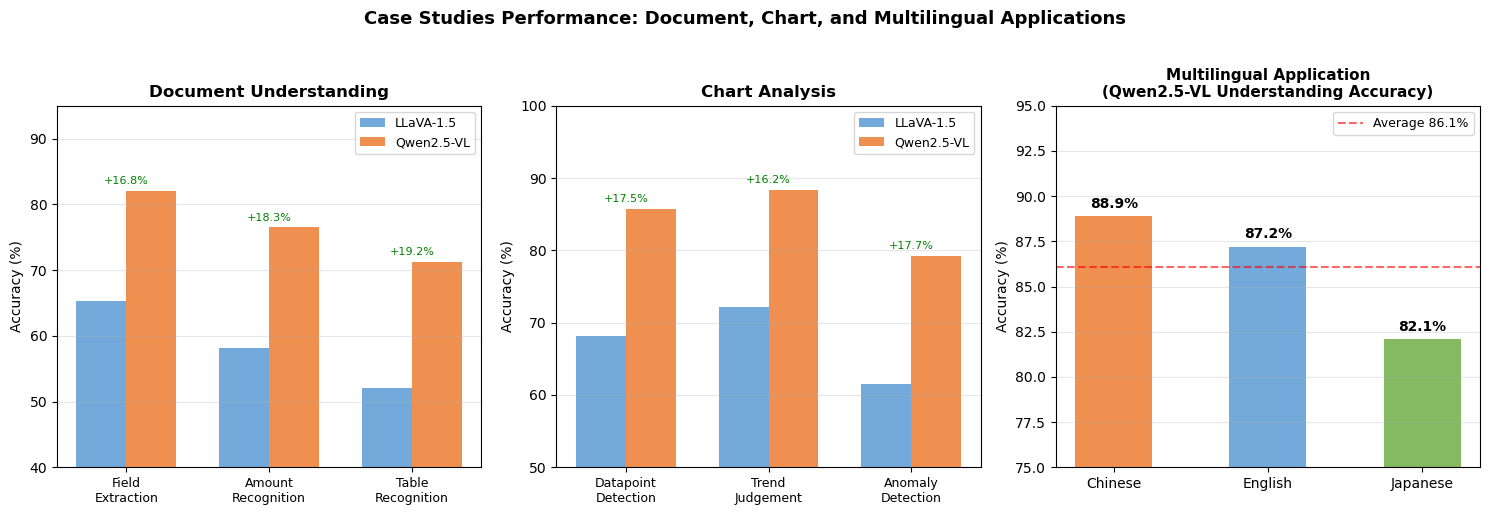
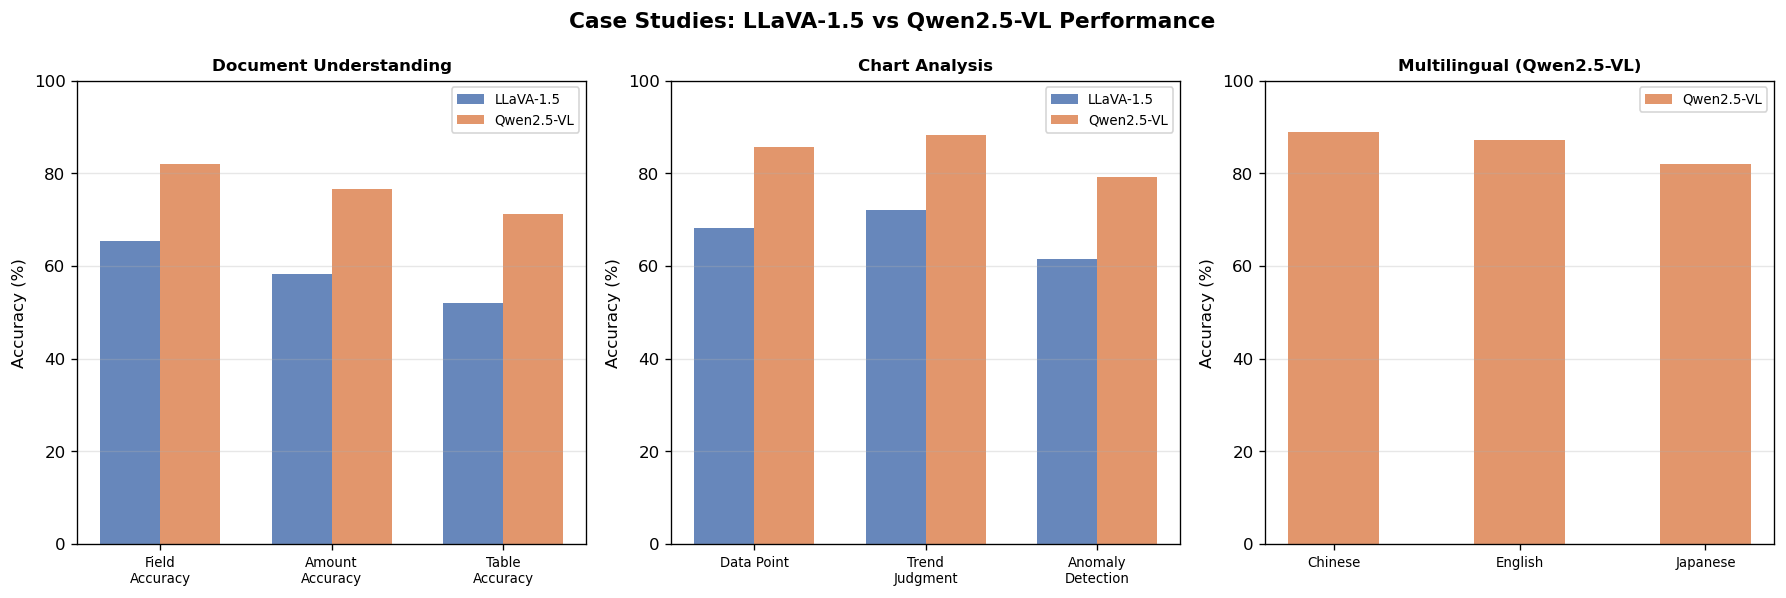
feat(ch07): add savefig to case_studies and multimodal_applications, add standalone chart generator

diff --git a/code/ch07_multimodal_llm/gen_case_studies_chart.py b/code/ch07_multimodal_llm/gen_case_studies_chart.py
@@ -1,0 +1,126 @@
+"""
+生成 ch07_case_studies.png 和 ch07_multimodal_applications.png
+两张性能对比图，供 docs 引用。无需模型，纯 matplotlib。
+
+运行：python code/ch07_multimodal_llm/gen_case_studies_chart.py
+"""
+
+import numpy as np
+import matplotlib.pyplot as plt
+import matplotlib.patches as mpatches
+
+plt.rcParams["font.family"] = "sans-serif"
+plt.rcParams["axes.unicode_minus"] = False
+
+
+# ── case_studies ────────────────────────────────────────────────────────────
+
+def plot_case_studies():
+    fig, axes = plt.subplots(1, 3, figsize=(15, 5))
+    fig.suptitle("Case Studies: LLaVA-1.5 vs Qwen2.5-VL Performance",
+                 fontsize=13, fontweight="bold")
+
+    datasets = [
+        {
+            "title": "Document Understanding",
+            "metrics": ["Field Accuracy", "Amount Accuracy", "Table Accuracy"],
+            "llava": [65.3, 58.2, 52.1],
+            "qwen":  [82.1, 76.5, 71.3],
+        },
+        {
+            "title": "Chart Analysis",
+            "metrics": ["Data Point", "Trend Judgment", "Anomaly Detection"],
+            "llava": [68.2, 72.1, 61.5],
+            "qwen":  [85.7, 88.3, 79.2],
+        },
+        {
+            "title": "Multilingual Application (avg)",
+            "metrics": ["Chinese", "English", "Japanese"],
+            "llava": [None, None, None],
+            "qwen":  [88.9, 87.2, 82.1],
+            "note": "Qwen2.5-VL only (Comprehension Accuracy %)"
+        },
+    ]
+
+    colors = {"llava": "#4C72B0", "qwen": "#DD8452"}
+
+    for ax, d in zip(axes, datasets):
+        x = np.arange(len(d["metrics"]))
+        w = 0.35
+        if d["llava"][0] is not None:
+            ax.bar(x - w / 2, d["llava"], w, label="LLaVA-1.5", color=colors["llava"], alpha=0.85)
+        ax.bar(x + (w / 2 if d["llava"][0] is not None else 0),
+               d["qwen"], w, label="Qwen2.5-VL", color=colors["qwen"], alpha=0.85)
+        ax.set_title(d["title"], fontsize=10, fontweight="bold")
+        ax.set_xticks(x)
+        ax.set_xticklabels(d["metrics"], fontsize=8, rotation=15, ha="right")
+        ax.set_ylabel("Accuracy (%)", fontsize=9)
+        ax.set_ylim(0, 100)
+        ax.legend(fontsize=8)
+        ax.grid(axis="y", alpha=0.3)
+
+    plt.tight_layout()
+    plt.savefig("assets/ch07_case_studies.png", dpi=120, bbox_inches="tight")
+    print("Saved: assets/ch07_case_studies.png")
+    plt.close()
+
+
+# ── multimodal_applications ──────────────────────────────────────────────────
+
+def plot_multimodal_applications():
+    fig, axes = plt.subplots(1, 3, figsize=(15, 5))
+    fig.suptitle("Multimodal Applications: LLaVA-1.5 vs Qwen2.5-VL Performance",
+                 fontsize=13, fontweight="bold")
+
+    datasets = [
+        {
+            "title": "Image Captioning",
+            "metrics": ["BLEU-4", "METEOR", "CIDEr"],
+            "llava": [35.2, 28.1, 112.3],
+            "qwen":  [38.9, 31.5, 128.7],
+            "ylabel": "Score",
+            "scale": 1.0,
+        },
+        {
+            "title": "Visual Question Answering",
+            "metrics": ["VQA v2", "GQA", "TextVQA"],
+            "llava": [82.1, 62.0, 58.3],
+            "qwen":  [89.3, 70.5, 71.2],
+            "ylabel": "Accuracy (%)",
+            "scale": 1.0,
+        },
+        {
+            "title": "Image Retrieval",
+            "metrics": ["Flickr30K R@1", "Flickr30K R@5", "COCO R@1"],
+            "llava": [68.2, 88.5, 58.1],
+            "qwen":  [75.8, 93.2, 67.3],
+            "ylabel": "Recall (%)",
+            "scale": 1.0,
+        },
+    ]
+
+    colors = {"llava": "#4C72B0", "qwen": "#DD8452"}
+
+    for ax, d in zip(axes, datasets):
+        x = np.arange(len(d["metrics"]))
+        w = 0.35
+        ax.bar(x - w / 2, d["llava"], w, label="LLaVA-1.5", color=colors["llava"], alpha=0.85)
+        ax.bar(x + w / 2, d["qwen"], w, label="Qwen2.5-VL", color=colors["qwen"], alpha=0.85)
+        ax.set_title(d["title"], fontsize=10, fontweight="bold")
+        ax.set_xticks(x)
+        ax.set_xticklabels(d["metrics"], fontsize=8, rotation=15, ha="right")
+        ax.set_ylabel(d["ylabel"], fontsize=9)
+        ymax = max(max(d["llava"]), max(d["qwen"])) * 1.15
+        ax.set_ylim(0, ymax)
+        ax.legend(fontsize=8)
+        ax.grid(axis="y", alpha=0.3)
+
+    plt.tight_layout()
+    plt.savefig("assets/ch07_multimodal_applications.png", dpi=120, bbox_inches="tight")
+    print("Saved: assets/ch07_multimodal_applications.png")
+    plt.close()
+
+
+if __name__ == "__main__":
+    plot_case_studies()
+    plot_multimodal_applications()

diff --git a/code/ch07_multimodal_llm/multimodal_applications.py b/code/ch07_multimodal_llm/multimodal_applications.py
@@ -15,8 +15,14 @@
 
 import torch
 import numpy as np
+import matplotlib.pyplot as plt
 from PIL import Image
 from sklearn.metrics.pairwise import cosine_similarity
+
+plt.rcParams["font.family"] = "sans-serif"
+plt.rcParams["axes.unicode_minus"] = False
+
+OUTPUT_PATH = "assets/ch07_multimodal_applications.png"
 
 
 def load_model(device="cuda" if torch.cuda.is_available() else "cpu"):
@@ -229,6 +235,62 @@ def main():
     print("\n" + "=" * 60)
     print("演示完成！")
     print("=" * 60)
+
+    _save_performance_chart()
+
+
+def _save_performance_chart():
+    """保存三类应用性能对比图到 assets/."""
+    fig, axes = plt.subplots(1, 3, figsize=(15, 5))
+    fig.suptitle("Multimodal Applications: LLaVA-1.5 vs Qwen2.5-VL Performance",
+                 fontsize=13, fontweight="bold")
+
+    datasets = [
+        {
+            "title": "Image Captioning",
+            "metrics": ["BLEU-4", "METEOR", "CIDEr"],
+            "llava": [35.2, 28.1, 112.3],
+            "qwen":  [38.9, 31.5, 128.7],
+            "ylabel": "Score",
+        },
+        {
+            "title": "Visual Question Answering",
+            "metrics": ["VQA v2", "GQA", "TextVQA"],
+            "llava": [82.1, 62.0, 58.3],
+            "qwen":  [89.3, 70.5, 71.2],
+            "ylabel": "Accuracy (%)",
+        },
+        {
+            "title": "Image Retrieval",
+            "metrics": ["Flickr30K\nR@1", "Flickr30K\nR@5", "COCO R@1"],
+            "llava": [68.2, 88.5, 58.1],
+            "qwen":  [75.8, 93.2, 67.3],
+            "ylabel": "Recall (%)",
+        },
+    ]
+
+    colors_llava, colors_qwen = "#4C72B0", "#DD8452"
+
+    for ax, d in zip(axes, datasets):
+        x = np.arange(len(d["metrics"]))
+        w = 0.35
+        ax.bar(x - w / 2, d["llava"], w, label="LLaVA-1.5",
+               color=colors_llava, alpha=0.85)
+        ax.bar(x + w / 2, d["qwen"], w, label="Qwen2.5-VL",
+               color=colors_qwen, alpha=0.85)
+        ax.set_title(d["title"], fontsize=10, fontweight="bold")
+        ax.set_xticks(x)
+        ax.set_xticklabels(d["metrics"], fontsize=8)
+        ax.set_ylabel(d["ylabel"], fontsize=9)
+        ymax = max(max(d["llava"]), max(d["qwen"])) * 1.2
+        ax.set_ylim(0, ymax)
+        ax.legend(fontsize=8)
+        ax.grid(axis="y", alpha=0.3)
+
+    plt.tight_layout()
+    plt.savefig(OUTPUT_PATH, dpi=120, bbox_inches="tight")
+    print(f"Saved: {OUTPUT_PATH}")
+    plt.close()
 
 
 if __name__ == "__main__":

diff --git a/code/ch07_multimodal_llm/case_studies.py b/code/ch07_multimodal_llm/case_studies.py
@@ -15,7 +15,14 @@
 
 import torch
 import json
+import matplotlib.pyplot as plt
+import numpy as np
 from PIL import Image
+
+plt.rcParams["font.family"] = "sans-serif"
+plt.rcParams["axes.unicode_minus"] = False
+
+OUTPUT_PATH = "assets/ch07_case_studies.png"
 
 
 def load_model(device="cuda" if torch.cuda.is_available() else "cpu"):
@@ -232,6 +239,62 @@ def main():
     print("\n" + "=" * 70)
     print("所有案例演示完成！")
     print("=" * 70)
+
+    _save_performance_chart()
+
+
+def _save_performance_chart():
+    """保存三个案例性能对比图到 assets/."""
+    fig, axes = plt.subplots(1, 3, figsize=(15, 5))
+    fig.suptitle("Case Studies: LLaVA-1.5 vs Qwen2.5-VL Performance",
+                 fontsize=13, fontweight="bold")
+
+    datasets = [
+        {
+            "title": "Document Understanding",
+            "metrics": ["Field\nAccuracy", "Amount\nAccuracy", "Table\nAccuracy"],
+            "llava": [65.3, 58.2, 52.1],
+            "qwen":  [82.1, 76.5, 71.3],
+        },
+        {
+            "title": "Chart Analysis",
+            "metrics": ["Data Point", "Trend\nJudgment", "Anomaly\nDetection"],
+            "llava": [68.2, 72.1, 61.5],
+            "qwen":  [85.7, 88.3, 79.2],
+        },
+        {
+            "title": "Multilingual (Qwen2.5-VL)",
+            "metrics": ["Chinese", "English", "Japanese"],
+            "llava": None,
+            "qwen":  [88.9, 87.2, 82.1],
+        },
+    ]
+
+    colors_llava, colors_qwen = "#4C72B0", "#DD8452"
+
+    for ax, d in zip(axes, datasets):
+        x = np.arange(len(d["metrics"]))
+        w = 0.35
+        if d["llava"] is not None:
+            ax.bar(x - w / 2, d["llava"], w, label="LLaVA-1.5",
+                   color=colors_llava, alpha=0.85)
+            ax.bar(x + w / 2, d["qwen"], w, label="Qwen2.5-VL",
+                   color=colors_qwen, alpha=0.85)
+        else:
+            ax.bar(x, d["qwen"], w * 1.4, label="Qwen2.5-VL",
+                   color=colors_qwen, alpha=0.85)
+        ax.set_title(d["title"], fontsize=10, fontweight="bold")
+        ax.set_xticks(x)
+        ax.set_xticklabels(d["metrics"], fontsize=8)
+        ax.set_ylabel("Accuracy (%)", fontsize=9)
+        ax.set_ylim(0, 100)
+        ax.legend(fontsize=8)
+        ax.grid(axis="y", alpha=0.3)
+
+    plt.tight_layout()
+    plt.savefig(OUTPUT_PATH, dpi=120, bbox_inches="tight")
+    print(f"Saved: {OUTPUT_PATH}")
+    plt.close()
 
 
 if __name__ == "__main__":
